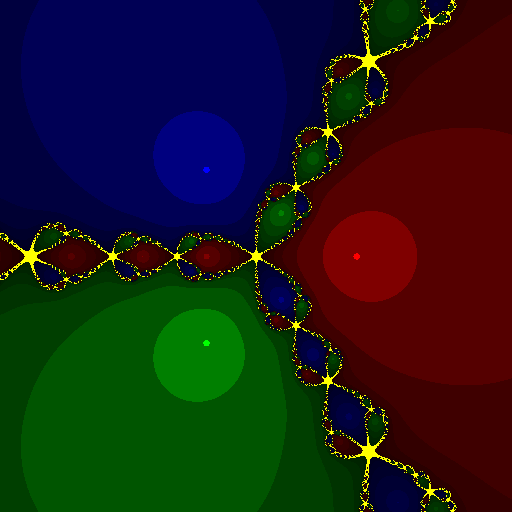
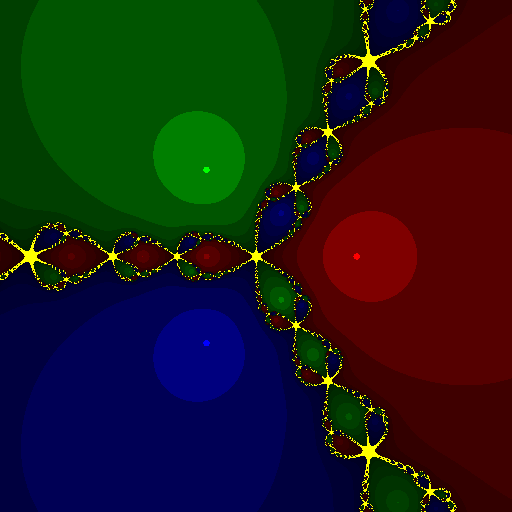
Generalize newton fractal generator. Now works for supplied polynomial, with dynamic colors.

diff --git a/newton_fractal.py b/newton_fractal.py
@@ -5,23 +5,50 @@
 #   to c++ later for practice.
 
 import Image, ImageDraw, math
+from sympy.mpmath import *
 from calculus import newton
 from math import pi, sin
 
+# Some polynomials to play around with.
+ff = lambda z: z**3 - 1
+pf = [1, 0, 0, -1]
+fg = lambda z: z**3 - 2*z + 2
+pg = [1, 0, -2, 2]
+fh = lambda z: z**8 + 15*z**4 - 16
+ph = [1, 0, 0, 0, 15, 0, 0, 0, -16]
+
+# Choose polynomial / function to use for fractal.
+f = fg
+p = pg
+
+# Calculate real/complex roots of function using sympy.
+roots = []
+for r in polyroots(p):
+    roots.append(r)
+
+# Drawing constants
 dimx = dimy = 512
-shift = dimx/2
+shift = dimx / 2
 img = Image.new("RGB", (dimx, dimy))
 draw = ImageDraw.Draw(img)
 
-f = lambda z: z**3 - 1
-roots = [complex(1, 0), complex(-0.5, sin(2*pi/3)), complex(-0.5, -sin(2*pi/3))]
+# Accuracy constants
 max_iters = 15
 epsilon = .01
 bound = int(2 / epsilon)
 
-red = "rgb(255, 0, 0)"
-green = "rgb(0, 255, 0)"
-blue = "rgb(0, 0, 255)"
+# Color constants
+blue = (0, 0, 255)
+red = (255, 0, 0)
+green = (0, 255, 0)
+yellow = (255, 255, 0)
+magenta = (255, 0, 255)
+pink = (255, 128, 128)
+gray = (128, 128, 128)
+brown = (128, 0, 0)
+orange = (255, 128, 0)
+
+colors = [blue, red, green, yellow, magenta, pink, gray, brown, orange]
 
 for a in range(-dimx/2, dimx/2):
     for b in range(-dimy/2, dimy/2):
@@ -30,17 +57,17 @@ for a in range(-dimx/2, dimx/2):
         c, depth = newton.newton(f, max_iters, complex(a*epsilon, b*epsilon))
 
         # Apply shading based on depth of newton function.
-        color_depth_mod = 255 / (depth/2 + 1)
+        color_depth_mod = (depth/2 + 1)
 
         # Decide which color to draw.
-        if abs(c - roots[0]) < epsilon:
-            draw.point((a+shift, b+shift), fill="rgb(%d, %d, %d)" % (color_depth_mod, 0, 0))
-        elif abs(c - roots[1]) < epsilon:
-            draw.point((a+shift, b+shift), fill="rgb(%d, %d, %d)" % (0, color_depth_mod, 0))
-        elif abs(c - roots[2]) < epsilon:
-            draw.point((a+shift, b+shift), fill="rgb(%d, %d, %d)" % (0, 0, color_depth_mod))
-        else:
+        found = False
+        for i in range(len(roots)):
+            if abs(c - roots[i]) < epsilon:
+                dcolor = [c / color_depth_mod for c in colors[i]]
+                draw.point((a+shift, b+shift), tuple(dcolor))
+                found = True
+        if not found:
             draw.point((a+shift, b+shift), fill="rgb(255, 255, 0)")
 
 del draw
-img.save("results/newton_result3.png");
+img.save("results/newton_result5.png");

diff --git a/test.py b/test.py
@@ -1,0 +1,4 @@
+from sympy.mpmath import *
+
+for r in polyroots([1, 0, 0, -1]):
+    print r
